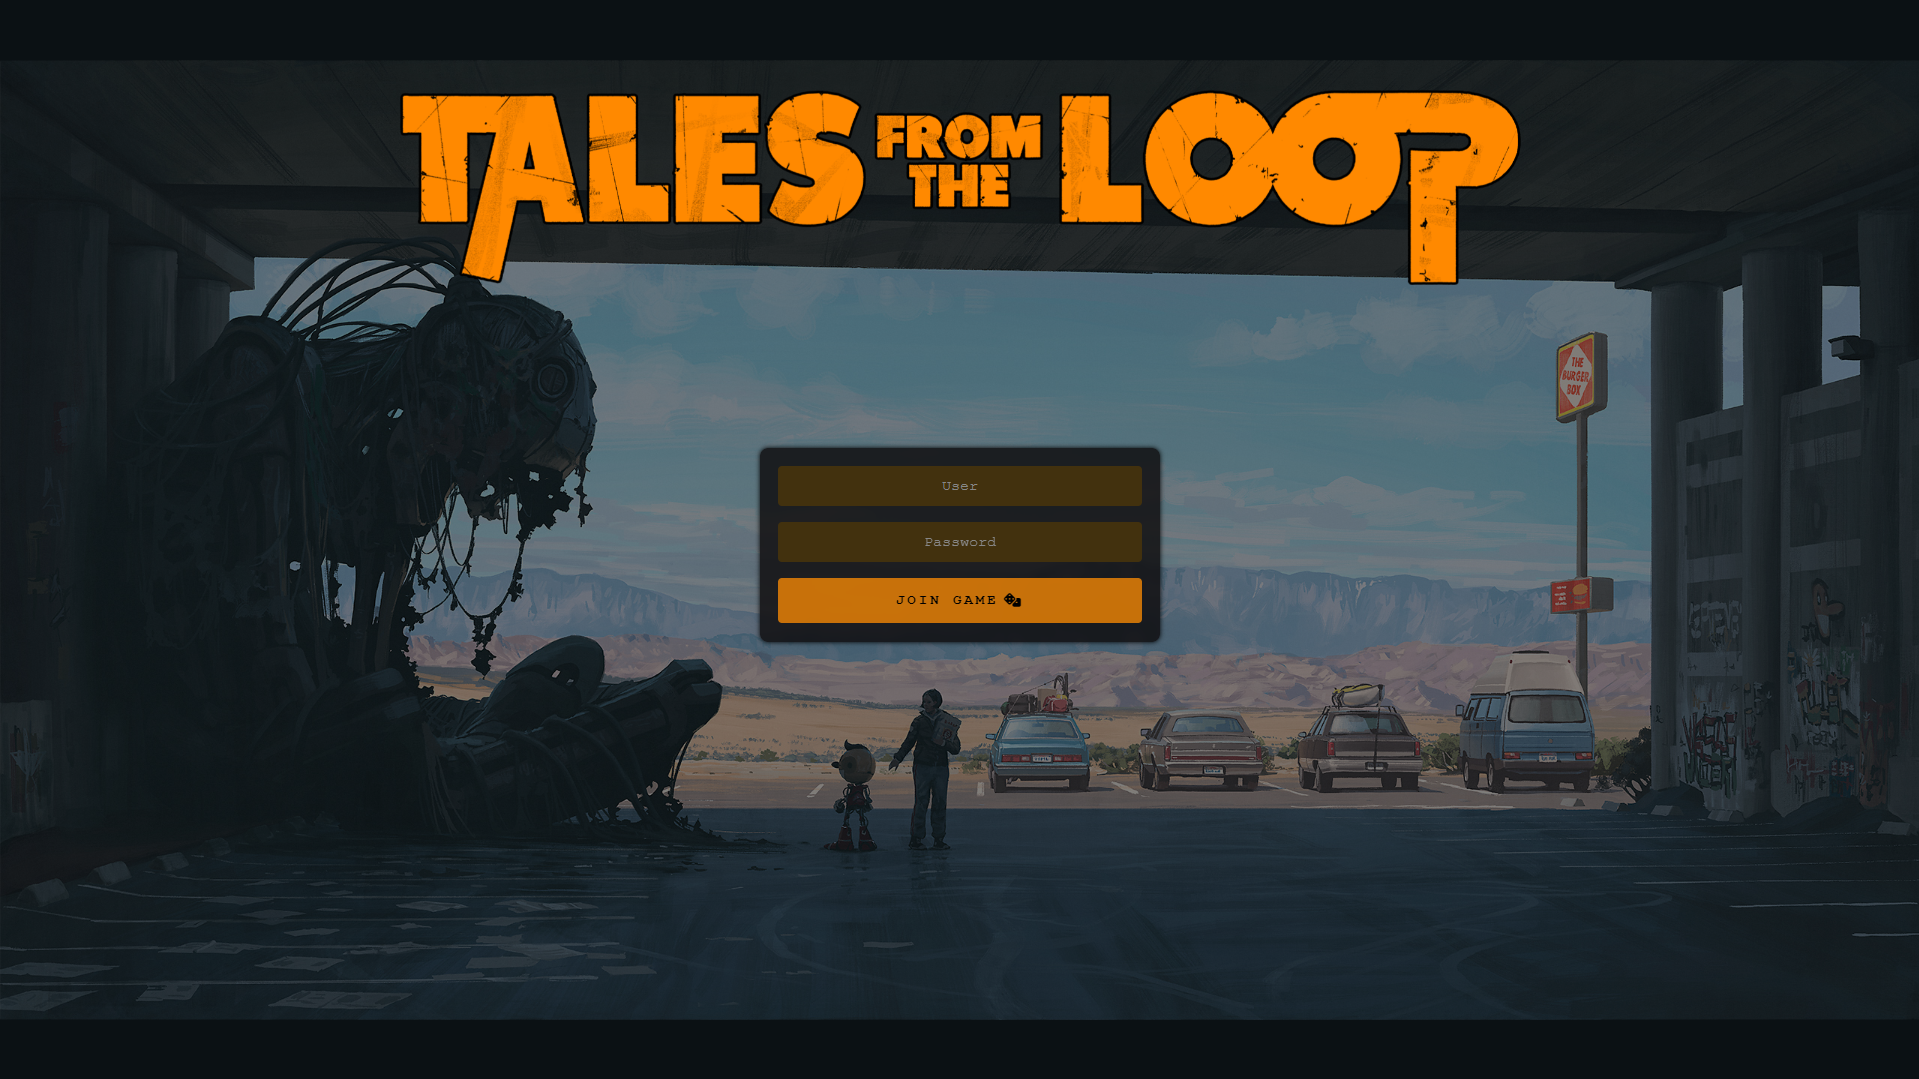
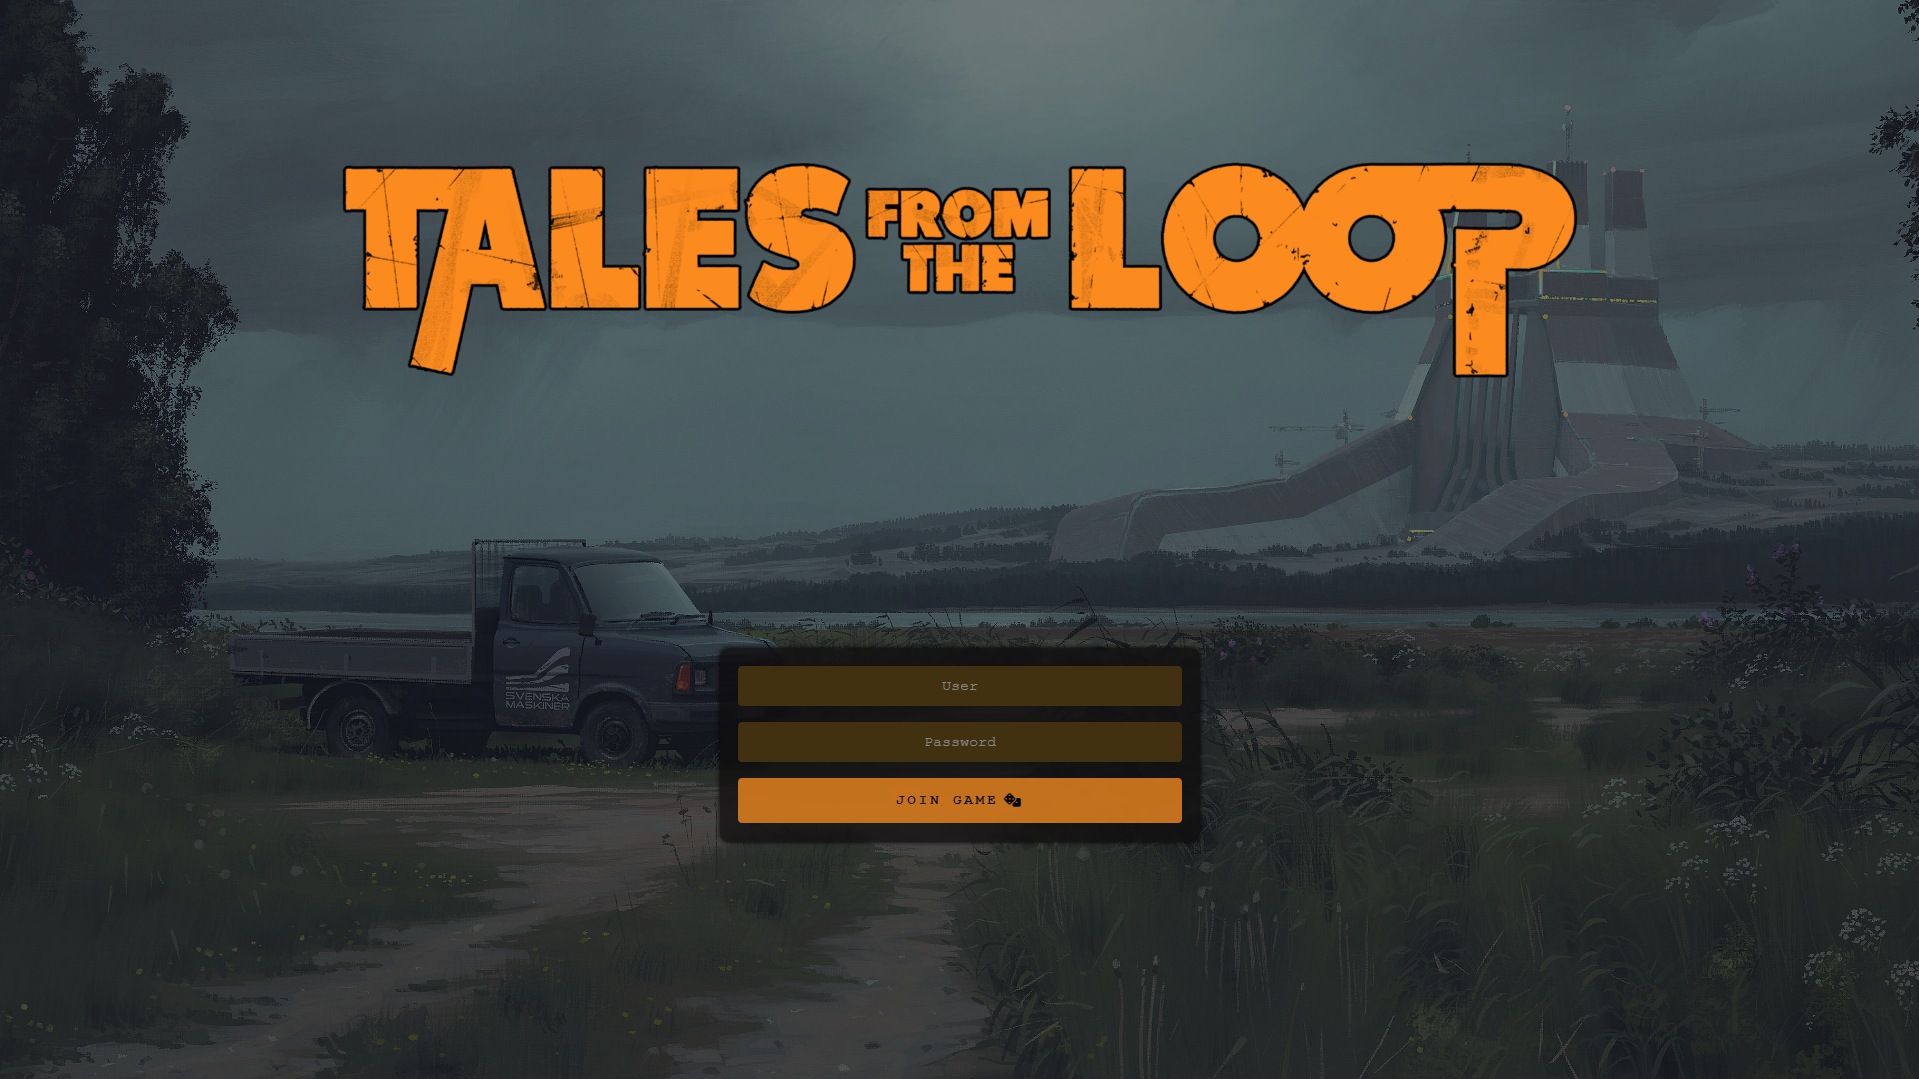
updated tftl

diff --git a/tales-from-the-loop/foundry2.css b/tales-from-the-loop/foundry2.css
@@ -1,61 +1,79 @@
 /*
 FoundryVTT Login Pages made by Doluprane
 Kind of a fork from github.com/dandln
-based on code by u/bass-blowfish
+Based on code by u/bass-blowfish
 
 Currently working in v11
+Will be tested in v12 asap
 */
 
 /* CONFIGURATION AREA */
 body.auth, #watermark {
-  --login-world-logo: url("/tales-from-the-loopl-logo.png");
[1 lines of base64/hex data omitted]
-  --login-footer-logo-height: 25px;
-  --login-button-color: rgba(243, 135, 4, 0.8);
-  --login-button-color-hover: rgba(243, 135, 4, 1.0);
-  --login-button-text-color: black;
-  --login-show-text-title: none;
-  --login-app-background-color: rgba(11, 9, 10, 0.8);
-  --login-input-text-background-color: rgba(66, 49, 14, 1.0);
-  --login-input-text-color: white;
-  --login-input-text-color-placeholder: rgba(135, 135, 135, 1.0);
-  --font: Trixie,'Courier New',Courier,monospace;
+  --login-world-logo:url("/tftl-logo.webp");
+  --login-world-logo-size:65%;
+  --login-button-color:rgba(243, 135, 4, 0.8);
+  --login-button-color-hover:rgba(243, 135, 4, 1.0);
+  --login-button-text-color:black;
+  --login-app-background-color:rgba(11, 9, 10, 0.8);
+  --login-input-text-background-color:rgba(66, 49, 14, 1.0);
+  --login-input-text-color:white;
+  --login-input-text-color-placeholder:rgba(135, 135, 135, 1.0);
+  --font:Trixie,'Courier New',Courier,monospace
 }
 
-body.auth .app {
+/* FORM */
+body.auth .custom-app {
+  padding:1.15rem;
   box-shadow:0 0 5px black;
-  background:var(--login-app-background-color)
+  background:var(--login-app-background-color);
+  width:25%;
+  position:fixed!important;
+  top:60%;
+  left:50%;
+  transform:translate(-50%, -50%);
+  flex:none;
+  gap:1rem;
+  max-width: var(--maxWidth);
+  max-height: 100%;
+  display: flex;
+  flex-direction: column;
+  flex-wrap: nowrap;
+  justify-content: flex-start;
+  backdrop-filter: blur(4px);
+  border-radius: 8px;
+  z-index: var(--z-index-app);
+  transform-origin: top left;
+  -webkit-animation: slide-in-bck-bottom 1.5s cubic-bezier(0.250, 0.460, 0.450, 0.940) both;
+  animation: slide-in-bck-bottom 1.5s cubic-bezier(0.250, 0.460, 0.450, 0.940) both
 }
-  
-body.auth #main-header {
+
+/* BACKGROUND */
+body.background {
+  -webkit-animation: fade-in 2s cubic-bezier(0.390, 0.575, 0.565, 1.000) both;
+  animation: fade-in 2s cubic-bezier(0.390, 0.575, 0.565, 1.000) both
+}
+
+/* CUSTOM HEADER WITH WORLD LOGO */
+body.auth #custom-header {
   background:var(--login-world-logo);
   background-repeat:no-repeat;
-  background-size:60%;
-  background-position:center;
+  background-size:var(--login-world-logo-size);
+  background-position-x:center;
+  background-position-y:center;
   height:120px!important;
   border:none;
-  box-shadow:none
-}
-  
-body.auth #watermark::before {
-  display:block;
-  content:" ";
-  background:var(--login-footer-logo);
-  background-size:contain;
-  background-repeat:no-repeat;
-  background-position:center;
-  width:var(--maxWidth);
-  height:var(--login-footer-logo-height);
-  margin-top:calc(calc(var(--login-footer-logo-height) * -1) + 25px);
-  margin-bottom:5px
+  box-shadow:none;
+  position:fixed;  
+  top:7.5%; 
+  left:0;
+  width:100%;
+  height:35vh!important;
+  -webkit-animation: slide-in-bck-top 1.5s cubic-bezier(0.250, 0.460, 0.450, 0.940) both;
+  animation: slide-in-bck-top 1.5s cubic-bezier(0.250, 0.460, 0.450, 0.940) both;
 }
   
 body.join #join-game {
   grid-template-columns:1fr!important
-}
-  
-body.auth #main-header h1 {
-  display:var(--login-show-text-title)
 }
   
 #join-game {
@@ -133,22 +151,12 @@ body.auth #main-header h1 {
 #join-game button:focus {
   outline:none
 }
-  
+
+/* ADDING A DICE NEXT TO LABEL */  
 #join-game button[name="join"]:after {
   content:"\f522";
   padding-left:5px;
   font-family:'FontAwesome'
-}
-  
-#join-game button[name="shutdown"]:after {
-  content:"\f023";
-  padding-left:5px;
-  font-family:'FontAwesome'
-}
-  
-body.auth .app:not(.window-app) {
-  padding:1.15rem;
-  margin-top:4.5rem
 }
   
 #join-game select:required:invalid {
@@ -162,10 +170,82 @@ body.auth .app:not(.window-app) {
   text-align-last:center
 }
   
-body.auth label.icon, #join-game-world, #join-game-details, #join-game .divider, #join-game .return-setup, #join-game button[name="join"] i.fas.fa-check, #join-game button[name="shutdown"] .fas.fa-lock, #join-game select option:checked {
-  display:none
-}
-  
 #join-game input::placeholder, #join-game select option:disabled {
   color:var(--login-input-text-color-placeholder)
+}
+
+body.auth #main-header h1, body.auth label.icon, #join-game-world, #join-game-details, #join-game .divider, #join-game .return-setup, #join-game button[name="join"] i.fas.fa-check, #join-game button[name="shutdown"] .fas.fa-lock, #join-game select option:checked {
+  display:none
+}
+
+/* CSS ANIMATIONS */
+
+/* USED BY LOG IN FORM */
+@-webkit-keyframes slide-in-bck-bottom {
+  0% {
+    -webkit-transform:  translate(-50%, 500px);
+            transform:  translate(-50%, 500px);
+    opacity: 0;
+  }
+  100% {
+    -webkit-transform:  translate(-50%, 0);
+            transform:  translate(-50%, 0);
+    opacity: 1;
+  }
+}
+@keyframes slide-in-bck-bottom {
+  0% {
+    -webkit-transform:  translate(-50%, 500px);
+            transform:  translate(-50%, 500px);
+    opacity: 0;
+  }
+  100% {
+    -webkit-transform:  translate(-50%, 0);
+            transform:  translate(-50%, 0);
+    opacity: 1;
+  }
+}
+
+/* USED BY WALLPAPER / BACKGROUND */
+@-webkit-keyframes fade-in {
+  0% {
+    opacity: 0;
+  }
+  100% {
+    opacity: 1;
+  }
+}
+@keyframes fade-in {
+  0% {
+    opacity: 0;
+  }
+  100% {
+    opacity: 1;
+  }
+}
+
+/* USED BY HEADER */
+@-webkit-keyframes slide-in-bck-top {
+  0% {
+    -webkit-transform: translateZ(700px) translateY(-300px);
+            transform: translateZ(700px) translateY(-300px);
+    opacity: 0;
+  }
+  100% {
+    -webkit-transform: translateZ(0) translateY(0);
+            transform: translateZ(0) translateY(0);
+    opacity: 1;
+  }
+}
+@keyframes slide-in-bck-top {
+  0% {
+    -webkit-transform: translateZ(700px) translateY(-300px);
+            transform: translateZ(700px) translateY(-300px);
+    opacity: 0;
+  }
+  100% {
+    -webkit-transform: translateZ(0) translateY(0);
+            transform: translateZ(0) translateY(0);
+    opacity: 1;
+  }
 }
